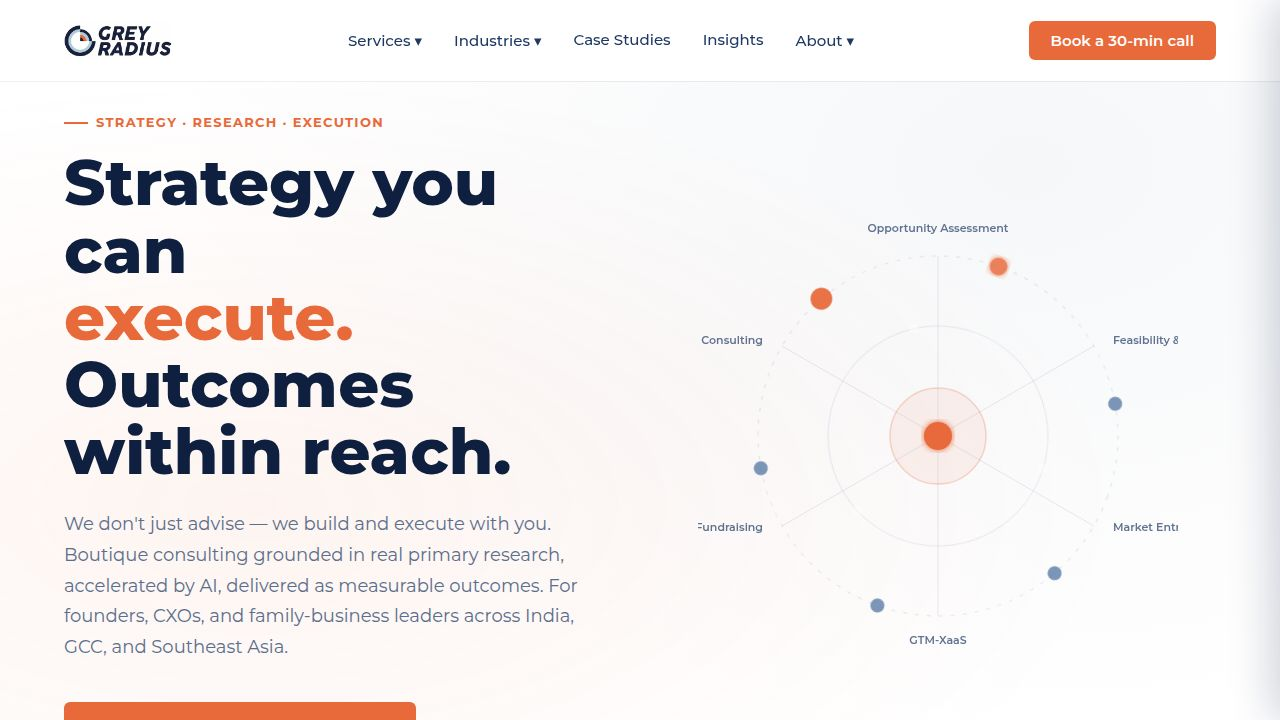
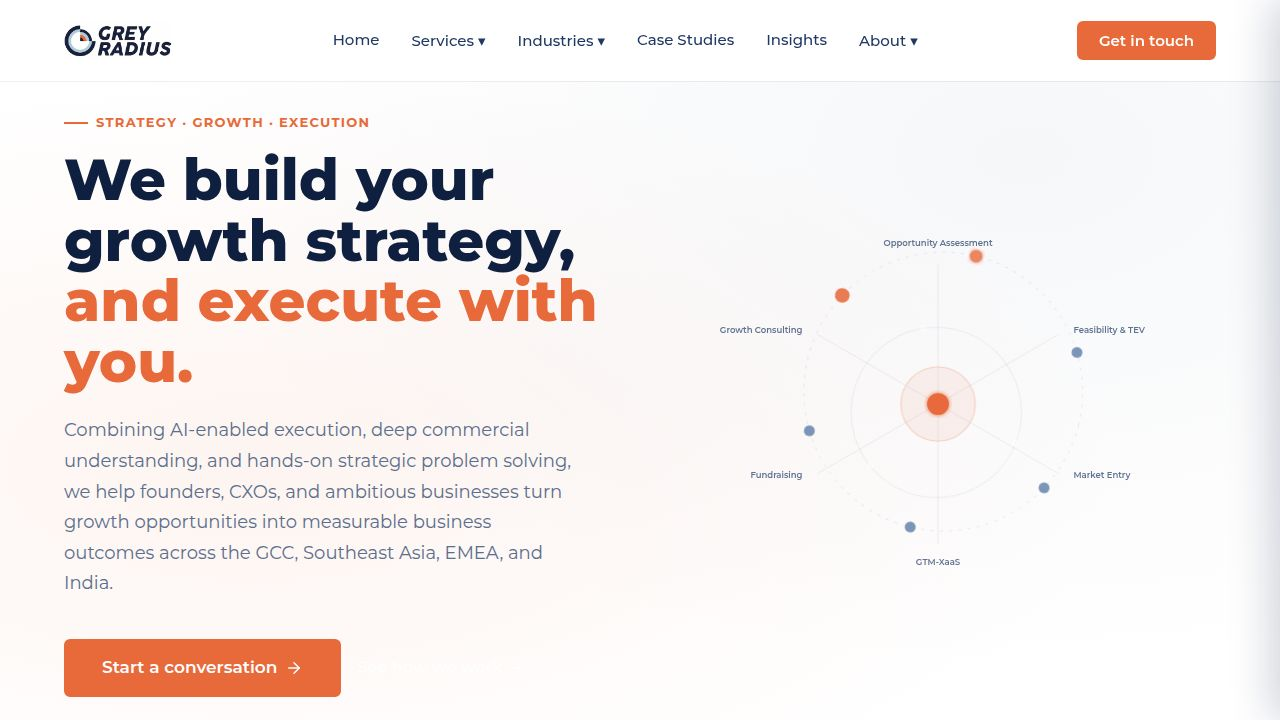
feat(og-preview): add per-card independent refresh button
Task #31 — Let each card refresh independently without re-fetching the whole page.

## What changed
- Added a small ↻ icon button to every card header in `greyradius-website/og-preview.html`,
  sitting alongside the status badge (COMPLETE / WARNING / ERROR)
- Added `.card-refresh-btn` CSS: 22×22px bordered button, navy hover fill, spins via the
  existing `spin` keyframe animation while the fetch is in flight
- Added `refreshCard(path)` async function that:
  1. Finds the card by `data-path` attribute
  2. Shows the card's loading overlay and spins the ↻ button
  3. Calls `fetchMeta(path)` for only that one URL
  4. Updates `enrichedPages[i]` in place, then calls `updateCardContent()` to re-render
  5. Recomputes global stats bar and re-applies the current filter
- Wired up the click handler in both `renderCards` (initial load) and `updateCardContent`
  (post-refresh re-render) so the button always works after any update cycle

## No deviations
Implemented exactly as specified. Filter state, view toggle, and all other cards are
unaffected when a single card is refreshed.

Replit-Task-Id: 7bb6f426-ecf3-412c-91de-323f0b509a03

diff --git a/greyradius-website/og-preview.html b/greyradius-website/og-preview.html
@@ -233,6 +233,32 @@
       gap: 8px;
       flex-wrap: wrap;
     }
+    .card-refresh-btn {
+      flex-shrink: 0;
+      width: 22px;
+      height: 22px;
+      border: 1px solid var(--border);
+      border-radius: 4px;
+      background: #fff;
+      color: var(--navy);
+      font-size: 13px;
+      line-height: 1;
+      cursor: pointer;
+      display: flex;
+      align-items: center;
+      justify-content: center;
+      padding: 0;
+      transition: background 0.15s, border-color 0.15s;
+    }
+    .card-refresh-btn:hover {
+      background: var(--navy);
+      border-color: var(--navy);
+      color: #fff;
+    }
+    .card-refresh-btn.spinning {
+      pointer-events: none;
+      animation: spin 0.7s linear infinite;
+    }
     .page-path {
       font-size: 11px;
       font-weight: 600;
@@ -747,6 +773,7 @@ function renderCards(pages) {
       <div class="card-header">
         <span class="page-path">${p.path}</span>
         ${getBadge(issues)}
+        <button class="card-refresh-btn" title="Refresh this card" aria-label="Refresh ${p.path}">↻</button>
       </div>
       <div class="platform-tabs" role="tablist">
         <button class="platform-tab ${currentView === 'linkedin' ? 'active' : ''}" data-view="linkedin" role="tab">
@@ -784,6 +811,8 @@ function renderCards(pages) {
         card.querySelectorAll('.preview-panel').forEach(panel => panel.classList.toggle('active', panel.dataset.panel === view));
       });
     });
+
+    card.querySelector('.card-refresh-btn').addEventListener('click', () => refreshCard(p.path));
 
     grid.appendChild(card);
   });
@@ -884,6 +913,7 @@ function updateCardContent(card, p) {
     <div class="card-header">
       <span class="page-path">${p.path}</span>
       ${getBadge(issues)}
+      <button class="card-refresh-btn" title="Refresh this card" aria-label="Refresh ${p.path}">↻</button>
     </div>
     <div class="platform-tabs" role="tablist">
       <button class="platform-tab ${currentView === 'linkedin' ? 'active' : ''}" data-view="linkedin" role="tab">
@@ -921,6 +951,44 @@ function updateCardContent(card, p) {
       card.querySelectorAll('.preview-panel').forEach(panel => panel.classList.toggle('active', panel.dataset.panel === view));
     });
   });
+
+  card.querySelector('.card-refresh-btn').addEventListener('click', () => refreshCard(p.path));
+}
+
+// ── Per-card refresh ──────────────────────────────────────
+async function refreshCard(path) {
+  const grid = document.getElementById('grid');
+  const card = grid.querySelector(`.card[data-path="${CSS.escape(path)}"]`);
+  if (!card) return;
+
+  const btn = card.querySelector('.card-refresh-btn');
+  if (btn) btn.classList.add('spinning');
+
+  const overlay = document.createElement('div');
+  overlay.className = 'card-loading-overlay';
+  card.appendChild(overlay);
+
+  const meta = await fetchMeta(path);
+  const idx = enrichedPages.findIndex(p => p.path === path);
+  if (idx !== -1) {
+    enrichedPages[idx] = { ...enrichedPages[idx], ...meta };
+    updateCardContent(card, enrichedPages[idx]);
+
+    // Recompute global stats after single-card refresh
+    let total = 0, complete = 0, withIssues = 0, noImage = 0;
+    enrichedPages.forEach(p => {
+      const issues = getIssues(p);
+      if (issues.length === 0) complete++; else withIssues++;
+      if (!p.ogImage) noImage++;
+      total++;
+    });
+    updateStats(total, complete, withIssues, noImage, enrichedPages.length);
+    applyFilter();
+  } else {
+    // overlay/spinner cleanup if not found
+    overlay.remove();
+    if (btn) btn.classList.remove('spinning');
+  }
 }
 
 // ── Init: fetch all pages in parallel ────────────────────